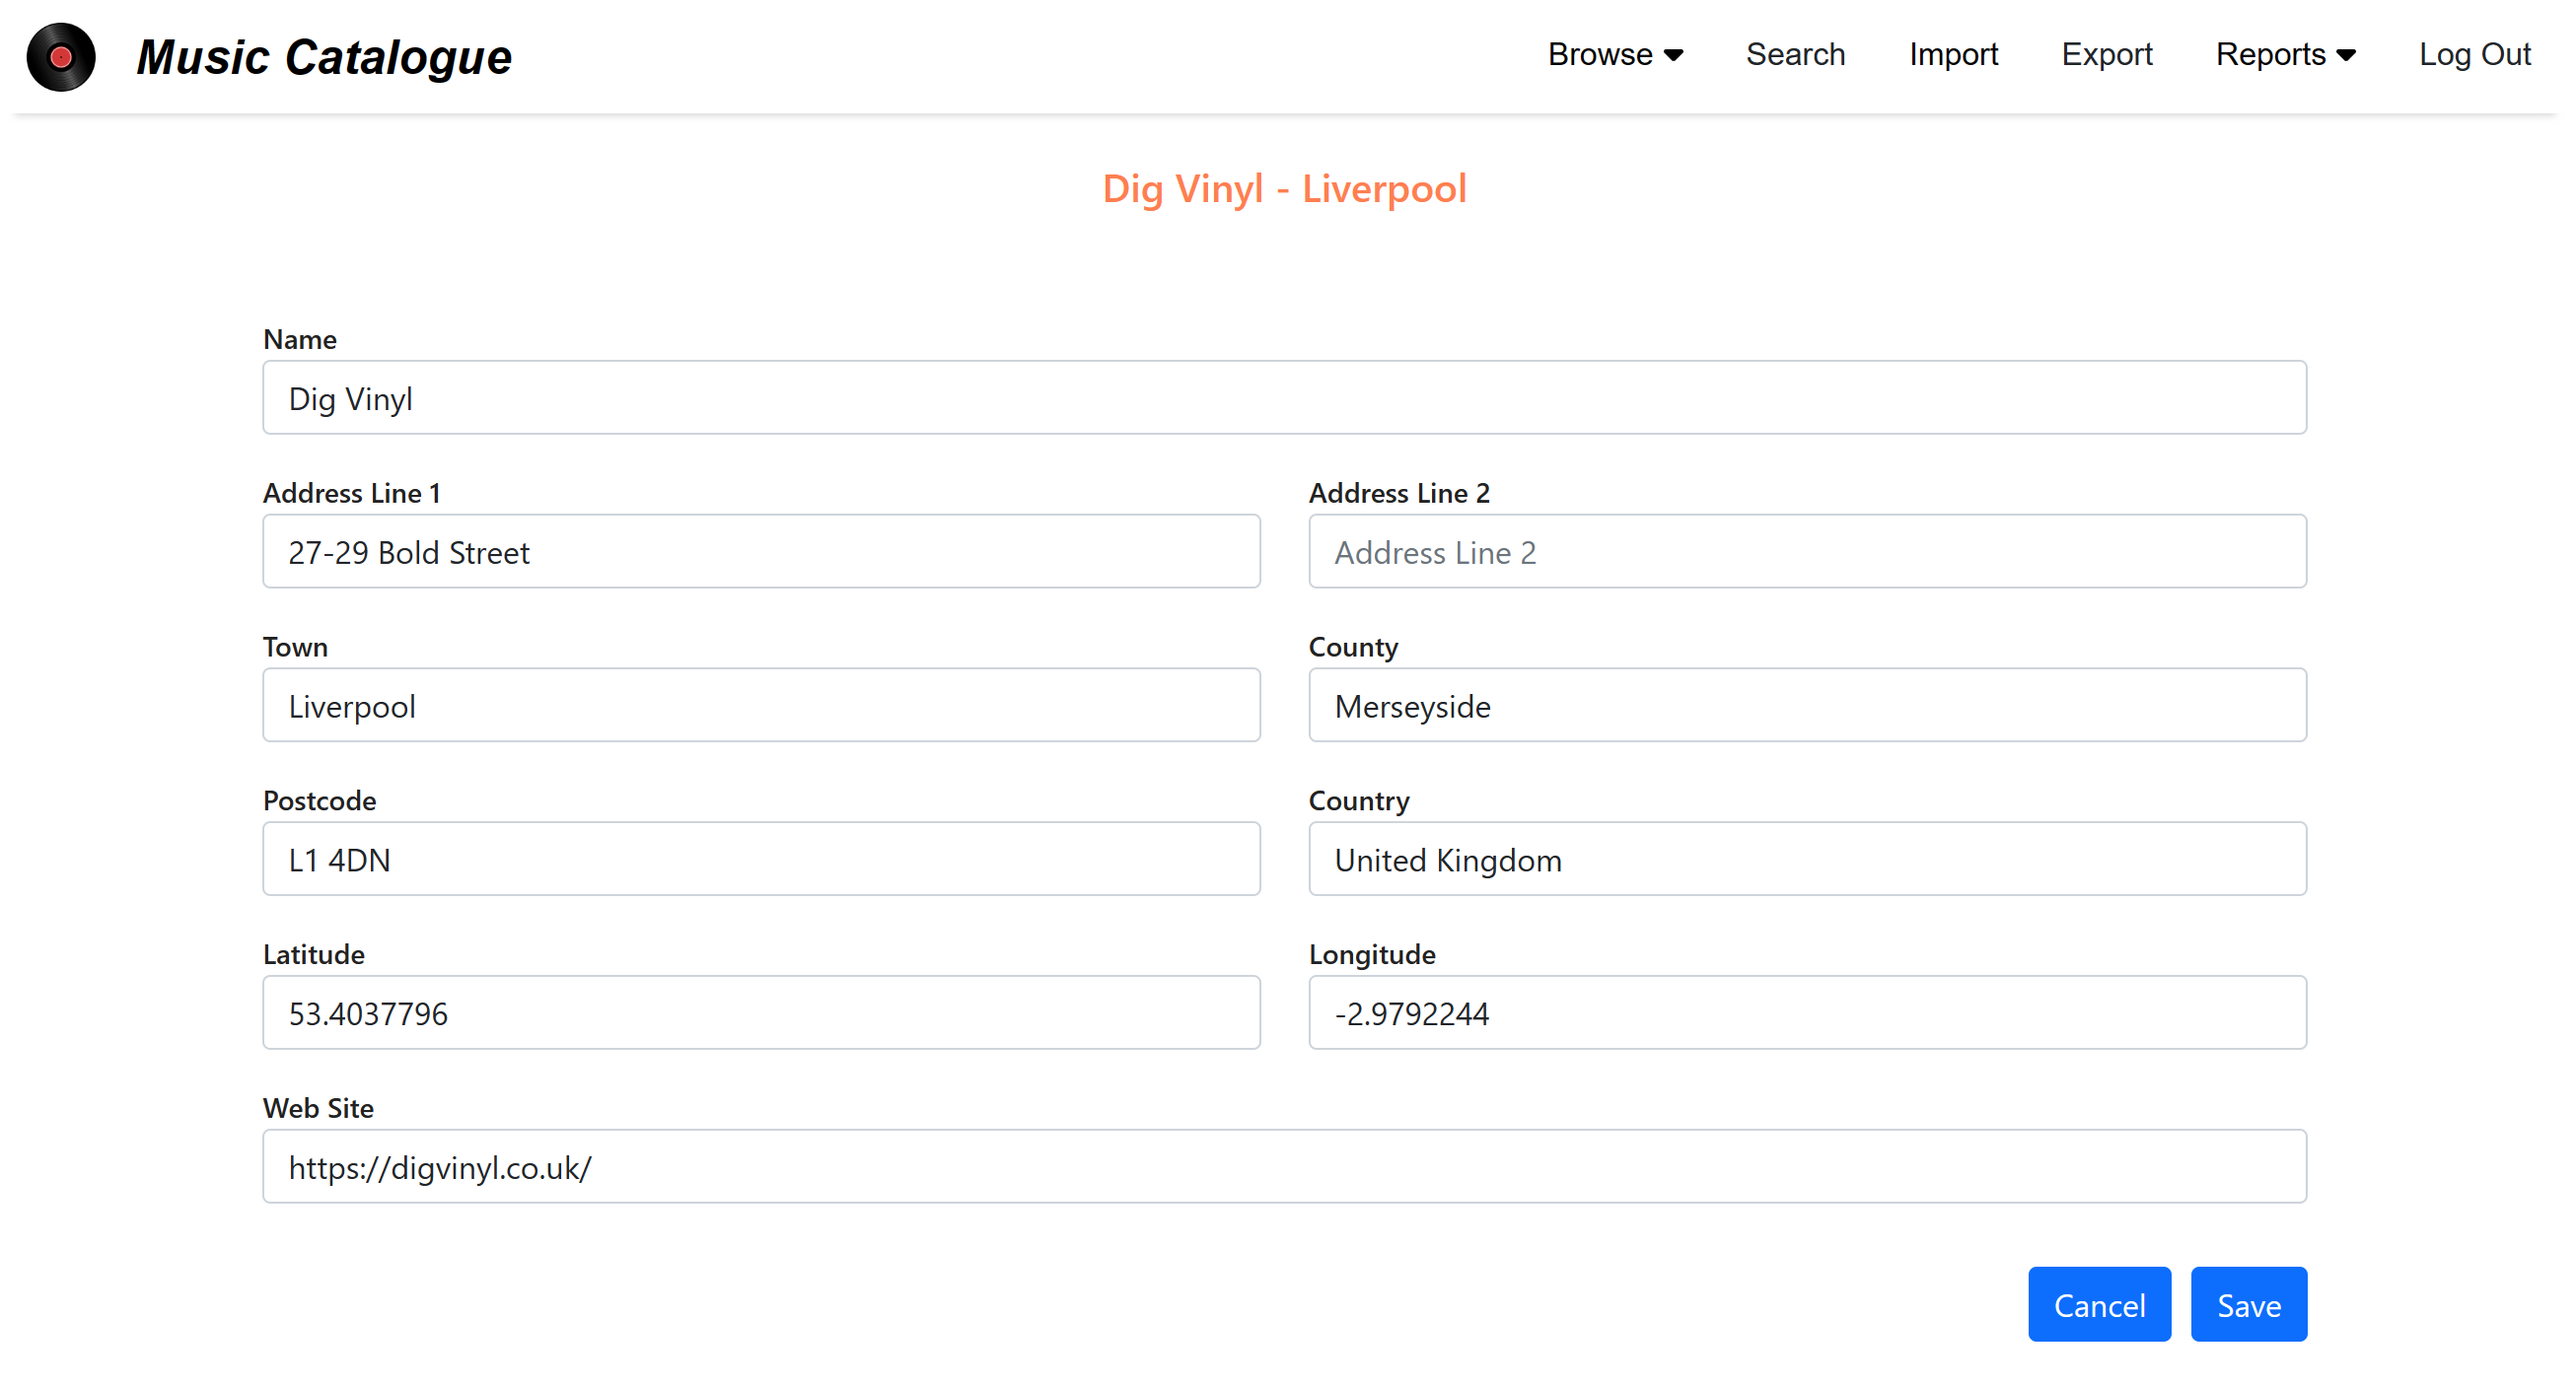
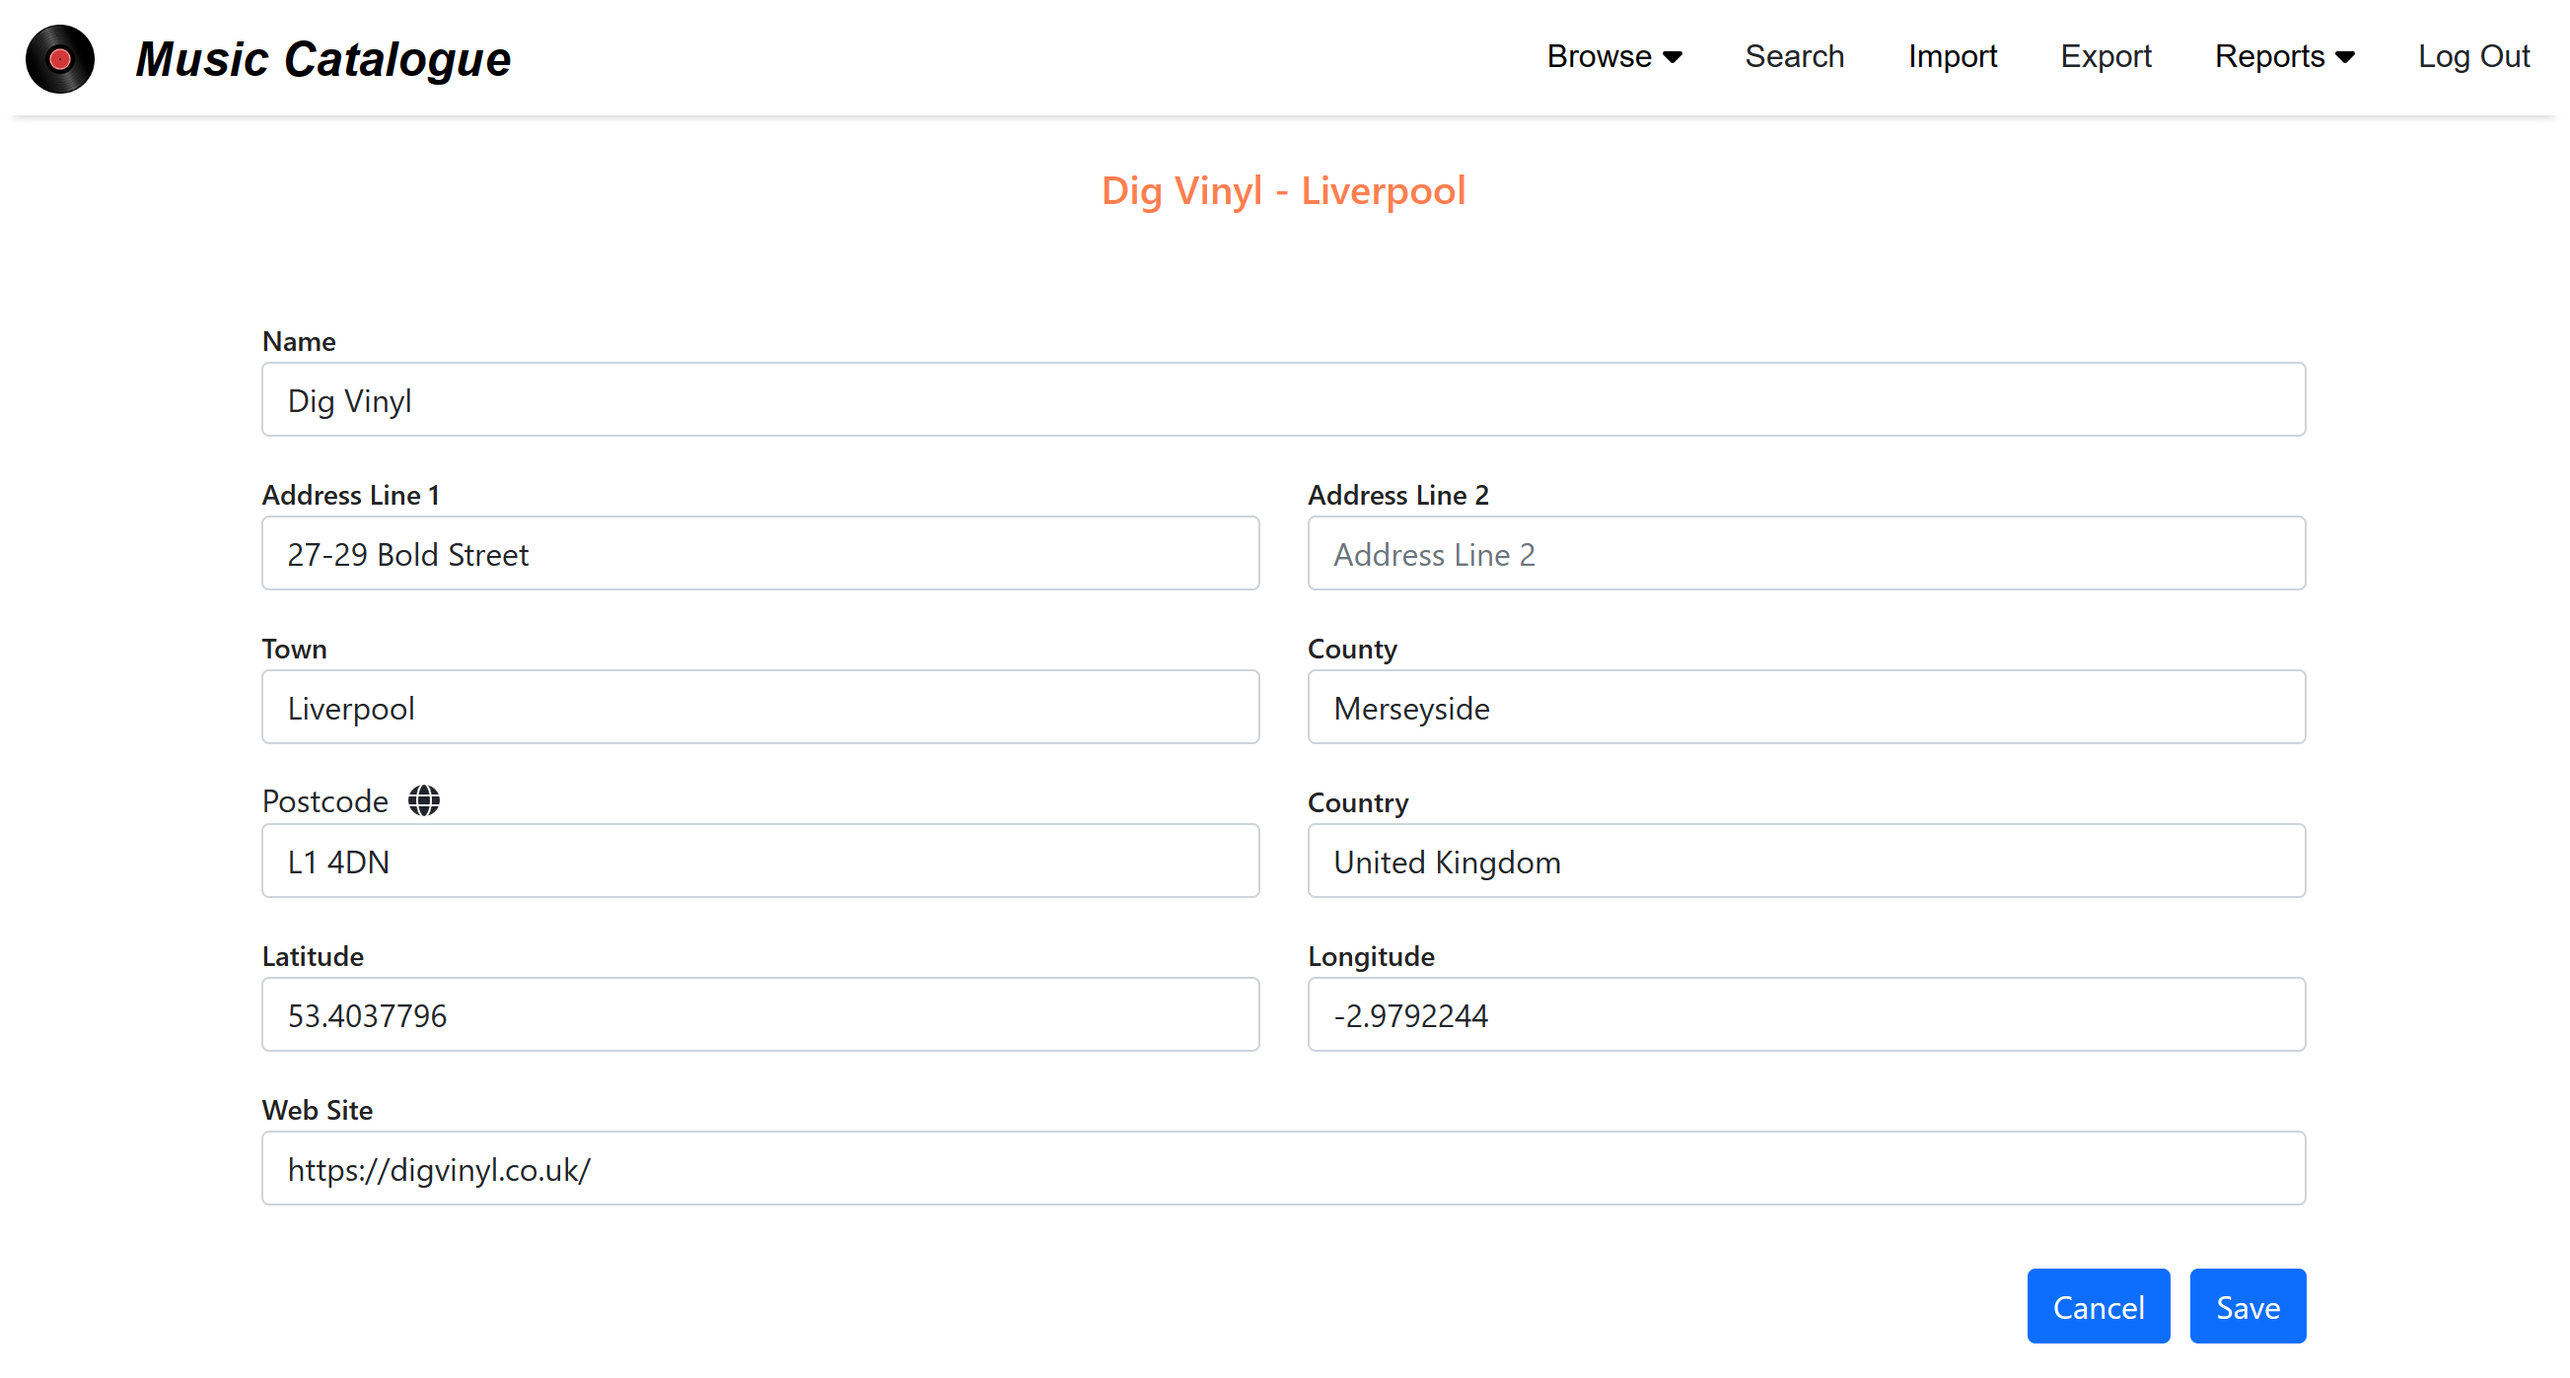
Add retailer address geocoding

diff --git a/src/music-catalogue-ui/components/retailerEditor.js b/src/music-catalogue-ui/components/retailerEditor.js
@@ -3,6 +3,9 @@ import pages from "../helpers/navigation";
 import { useState, useCallback } from "react";
 import { apiUpdateRetailer } from "@/helpers/apiRetailers";
 import FormInputField from "./formInputField";
+import { geocodeAddress } from "@/helpers/geocoder";
+import { FontAwesomeIcon } from "@fortawesome/react-fontawesome";
+import { faGlobe } from "@fortawesome/free-solid-svg-icons";
 
 const RetailerEditor = ({ retailer, navigate, logout }) => {
   const [name, setName] = useState(retailer.name);
@@ -16,6 +19,31 @@ const RetailerEditor = ({ retailer, navigate, logout }) => {
   const [longitude, setLongitude] = useState(retailer.longitude);
   const [webSite, setWebSite] = useState(retailer.webSite);
   const [error, setError] = useState("");
+
+  // Callback to geocode the address
+  const geocode = useCallback(
+    async (e) => {
+      // Prevent the default action associated with the click event
+      e.preventDefault();
+
+      // Geocode the address
+      const location = await geocodeAddress(
+        address1,
+        address2,
+        town,
+        county,
+        postCode,
+        country
+      );
+
+      // If we have an address, set the latitude and longitude
+      if (location != null) {
+        setLatitude(location.lat);
+        setLongitude(location.lng);
+      }
+    },
+    [address1, address2, town, county, postCode, country]
+  );
 
   /* Callback to save retailer details */
   const saveRetailer = useCallback(
@@ -133,12 +161,23 @@ const RetailerEditor = ({ retailer, navigate, logout }) => {
           </div>
           <div className="row align-items-start">
             <div className="col">
-              <FormInputField
-                label="Postcode"
-                name="postCode"
-                value={postCode}
-                setValue={setPostCode}
-              />
+              <div className="form-group mt-3">
+                <label className={styles.retailerEditorInputLabel}>
+                  Postcode
+                </label>
+                <FontAwesomeIcon
+                  icon={faGlobe}
+                  className={styles.retailerEditorGeocode}
+                  onClick={(e) => geocode(e)}
+                />
+                <input
+                  className="form-control"
+                  placeholder="Postcode"
+                  name="postcode"
+                  value={postCode}
+                  onChange={(e) => setPostCode(e.target.value)}
+                />
+              </div>
             </div>
             <div className="col">
               <FormInputField

diff --git a/src/music-catalogue-ui/helpers/geocoder.js b/src/music-catalogue-ui/helpers/geocoder.js
@@ -1,0 +1,43 @@
+import secrets from "@/helpers/secrets";
+import config from "../config.json";
+import { setDefaults, geocode, RequestType } from "react-geocode";
+import { getStorageValue } from "./storage";
+
+const geocodeAddress = async (
+  address1,
+  address2,
+  town,
+  county,
+  postcode,
+  country
+) => {
+  // This sets default values for language and region for geocoding requests.
+  const apiKey = getStorageValue(secrets.mapsApiKey);
+  setDefaults({
+    key: apiKey,
+    language: config.region.geocodingLanguage,
+    region: config.region.geocodingRegion,
+  });
+
+  // Construct an address from its components
+  const address = [
+    address1,
+    address1,
+    address2,
+    town,
+    county,
+    postcode,
+    country,
+  ].join(",");
+
+  try {
+    // Geocode the address
+    const response = await geocode(RequestType.ADDRESS, address);
+    const location = response.results[0].geometry.location;
+    return location;
+  } catch {
+    return null;
+  }
+};
+
+export { geocodeAddress };

diff --git a/src/music-catalogue-ui/components/retailerEditor.module.css b/src/music-catalogue-ui/components/retailerEditor.module.css
@@ -19,3 +19,7 @@
   font-weight: bold;
   color: red;
 }
+
+.retailerEditorGeocode {
+  margin-left: 10px;
+}

diff --git a/README.md b/README.md
@@ -134,17 +134,18 @@ MusicCatalogue.LookupTool --lookup "John Coltrane" "Blue Train" catalogue
 
 ### Configuration
 
-- The UI uses a simple "config.json" file containing the base URL for the Music Catalogue web service, a Google Maps API key for retailer location maps and locale settings used by the UI:
+- The UI uses a simple "config.json" file containing the base URL for the Music Catalogue web service and locale settings used by the UI and during address geocoding:
 
 ```json
 {
   "api": {
-    "baseUrl": "http://localhost:8098",
-    "mapsApiKey": ""
+    "baseUrl": "http://localhost:8098"
   },
   "region": {
     "locale": "en-GB",
-    "currency": "GBP"
+    "currency": "GBP",
+    "geocodingLanguage": "en",
+    "geocodingRegion": "GB"
   }
 }
 ```
@@ -228,8 +229,7 @@ MusicCatalogue.LookupTool --lookup "John Coltrane" "Blue Train" catalogue
 
 <img src="diagrams/retailer-editor.png" alt="Retailer Details" width="600">
 
-- Currently, the latitude and longitude (required to display the map) must be derived using external resources and then entered manually
-- The intention is to add postcode geocoding to the next release
+- Clicking on the globe icon next to the postcode entry will geocode the current address and populate the latitude and longitude with the results
 
 ### Album Lookup
 
